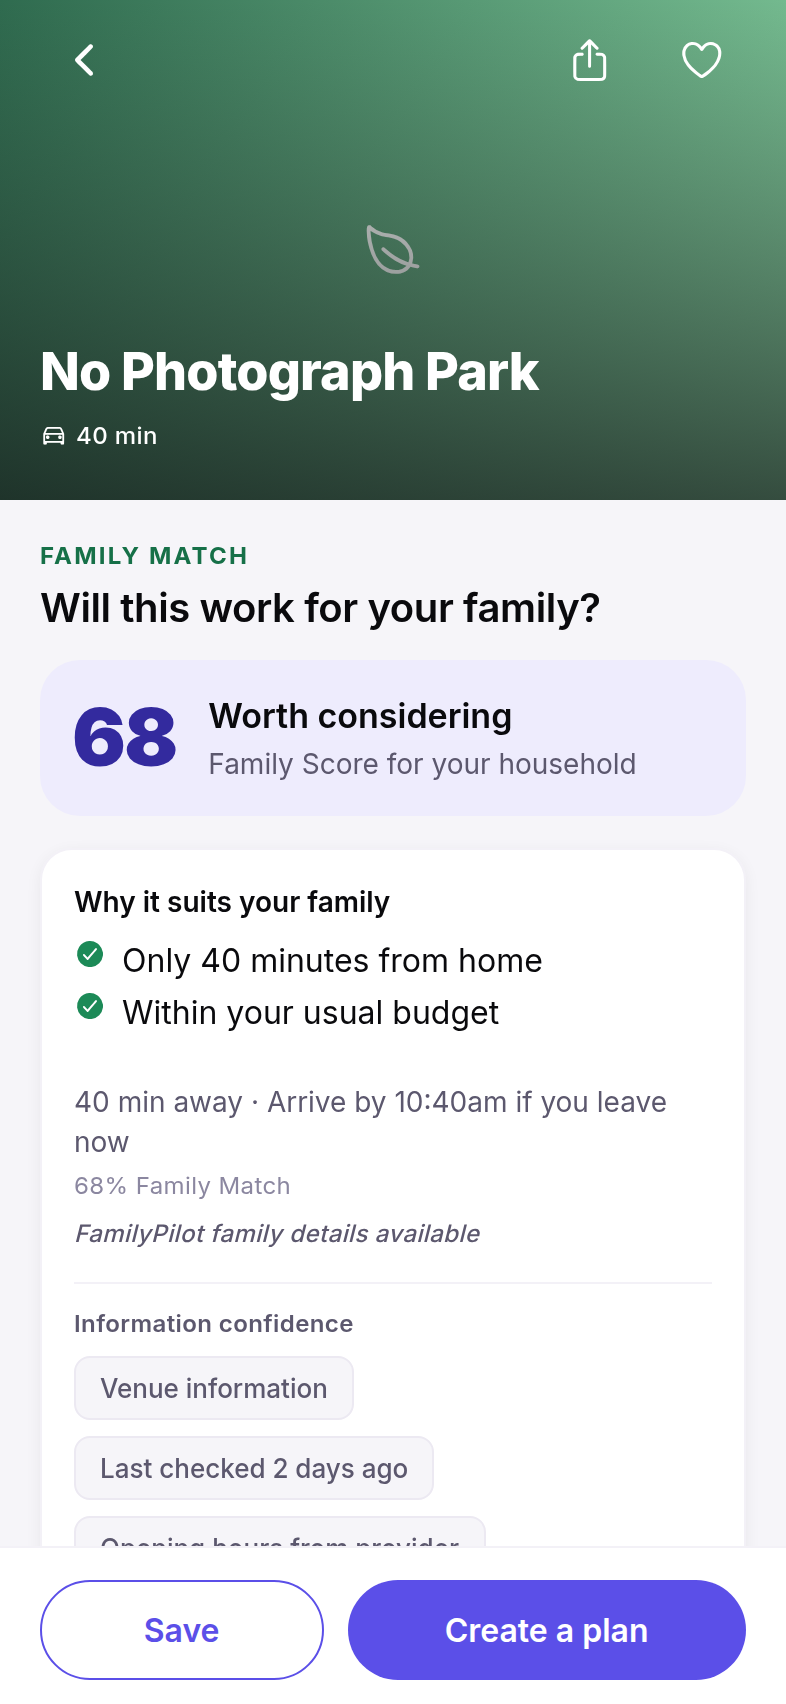
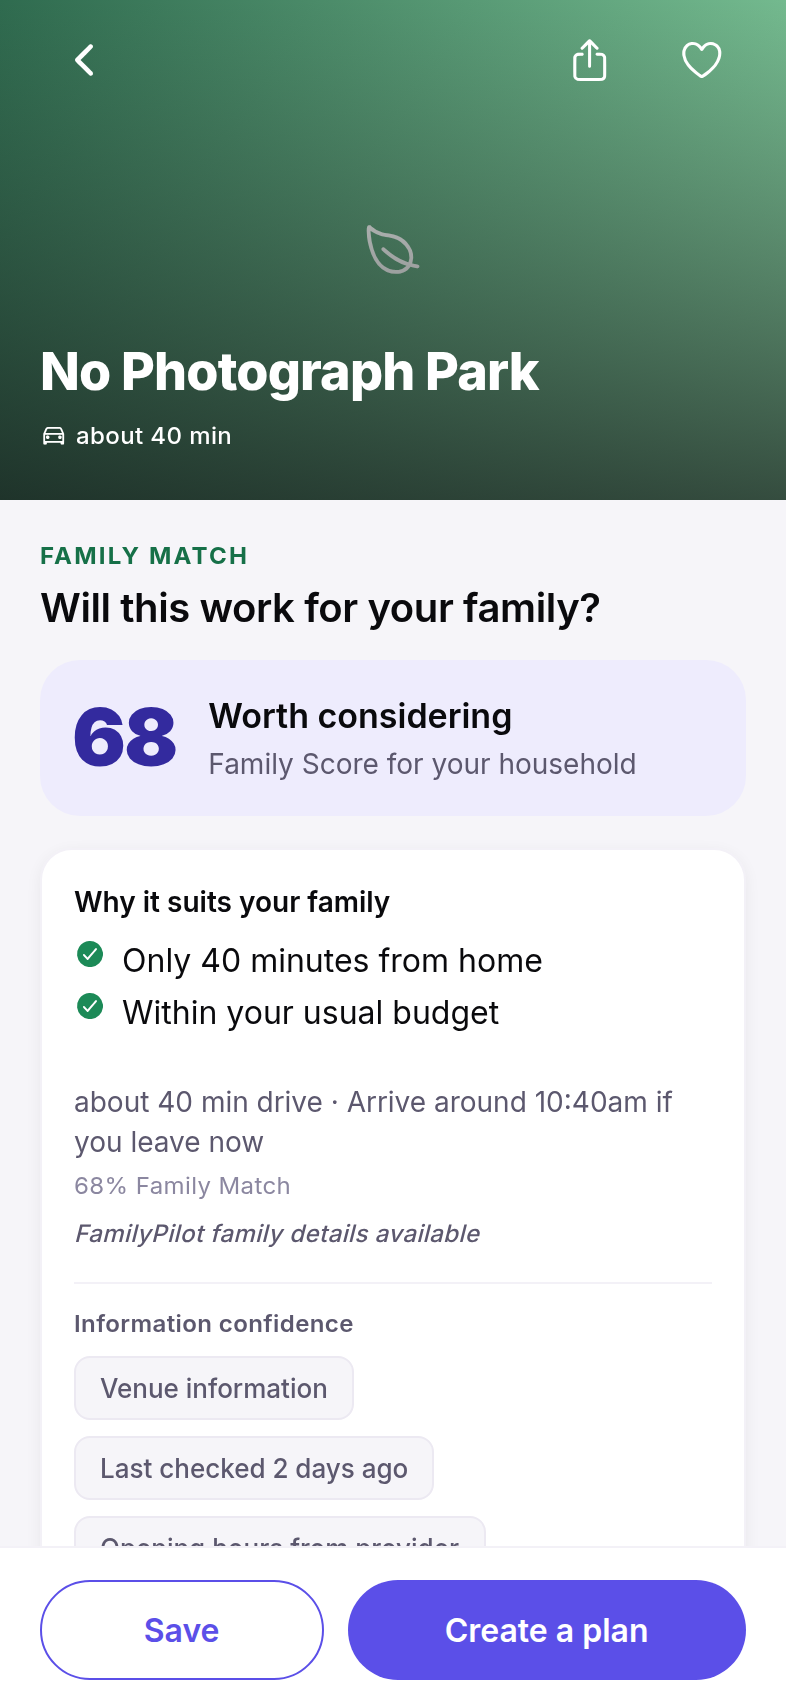
Stop wording a straight-line estimate as a measured journey
Section 4 of the brief: "Do not label a straight-line estimate as a routed
journey." Eleven surfaces were doing exactly that.

Every `driveMinutes` on a Venue, RestaurantDetail or StoreLocation is a Haversine
distance divided by 40 km/h and multiplied by 1.25 -- no road network, no
traffic, no routing. Printed as "14 min away" it reads as a measurement, and a
parent timing a day around a nap is being handed a guess in the voice of a fact.

The Plan screen already got this right: it labels each leg Measured or
Estimated from distance and counts how many are which. So the inconsistency was
inside the product, not only against the brief.

The sharpest case was RecommendationPattern, which turned the estimate into
"Arrive BY 14:32 if you leave now" -- a precise clock time and a promise, from a
straight line. Now "Arrive around".

One surface already had the provenance and ignored it: FocusedRecommendation
carries journeySource ('live' | 'estimated') because that path can substitute a
routed Distance Matrix value, and its card printed the number bare. It now words
the measured case plainly and the estimated case cautiously, which is the whole
point of keeping the field.

src/utils/travel-time.ts holds the rule in one place. An absent or unrecognised
source resolves to 'estimated', never to 'measured': the failure to avoid is
presenting a guess as a measurement, not the reverse. The mode vocabulary
(drive / walk / transit / bus) is there for the lunch work, and already refuses
[…]

Changed region(s): [[0.3359, 0.6221, 0.855, 0.6532], [0.0916, 0.6221, 0.3359, 0.6843], [0.0916, 0.2488, 0.2748, 0.2799]]

diff --git a/familypilot/src/__tests__/travel-time-label.test.ts b/familypilot/src/__tests__/travel-time-label.test.ts
@@ -1,0 +1,99 @@
+import { describe, expect, it } from 'vitest';
+
+import {
+  travelSourceOf,
+  travelTimeLabel,
+  travelTimeSpoken,
+  travelTimeWithMode,
+} from '@/src/utils/travel-time';
+
+/**
+ * A straight-line estimate must not be worded as a routed journey.
+ *
+ * The number behind every card's travel time is a Haversine distance divided by an assumed average
+ * speed. Printed as "14 min away" it reads as a measurement. These lock the distinction, and in
+ * particular lock the SAFE DIRECTION: when provenance is missing, the wording is cautious. Getting
+ * that backwards -- a guess presented as a measurement -- is the failure that matters to a parent
+ * timing a day around a nap.
+ */
+describe('a travel time is worded by how it was obtained', () => {
+  it('hedges an estimate', () => {
+    expect(travelTimeLabel(14, 'estimated')).toBe('about 14 min');
+  });
+
+  it('states a measurement plainly', () => {
+    expect(travelTimeLabel(14, 'measured')).toBe('14 min');
+  });
+
+  it('never words an estimate the way it words a measurement', () => {
+    for (const minutes of [1, 7, 14, 45, 120]) {
+      expect(travelTimeLabel(minutes, 'estimated')).not.toBe(travelTimeLabel(minutes, 'measured'));
+    }
+  });
+
+  it('costs at most one character more than the phrasing it replaces', () => {
+    // The old copy was `${minutes} min away`. "about " is six characters where " away" was five, so
+    // the hedge is always exactly one longer -- I first wrote this expecting it to be shorter, and it
+    // is not. One character is small enough that the locked Home frame can absorb it, but that is
+    // settled by re-running verify-home-against-figma.mjs, not by this bound.
+    for (const minutes of [1, 14, 120]) {
+      expect(travelTimeLabel(minutes, 'estimated').length).toBe(`${minutes} min away`.length + 1);
+    }
+  });
+
+  it('rounds to whole minutes and never promises under a minute', () => {
+    expect(travelTimeLabel(0, 'estimated')).toBe('about 1 min');
+    expect(travelTimeLabel(0.2, 'measured')).toBe('1 min');
+    expect(travelTimeLabel(14.6, 'measured')).toBe('15 min');
+  });
+});
+
+describe('the provider vocabulary resolves without guessing upward', () => {
+  it('treats a routed element as measured', () => {
+    expect(travelSourceOf('live')).toBe('measured');
+  });
+
+  it('treats the endpoint fallback as an estimate', () => {
+    expect(travelSourceOf('estimated')).toBe('estimated');
+  });
+
+  it('treats an absent source as an estimate, never as measured', () => {
+    // A venue persisted before provenance was carried, or a provider that stopped saying. Either
+    // way the cautious wording is the only honest one.
+    expect(travelSourceOf(undefined)).toBe('estimated');
+  });
+});
+
+describe('the mode is named, not assumed', () => {
+  it('names a drive', () => {
+    expect(travelTimeWithMode(14, 'estimated', 'drive')).toBe('about 14 min drive');
+  });
+
+  it('names a walk', () => {
+    expect(travelTimeWithMode(9, 'estimated', 'walk')).toBe('about 9 min walk');
+  });
+
+  it('does not call public transport a bus', () => {
+    // Section 5 of the brief: a bus label is a claim about the mode, not a generic transport word.
+    expect(travelTimeWithMode(22, 'measured', 'transit')).toBe('22 min by public transport');
+    expect(travelTimeWithMode(22, 'measured', 'transit')).not.toContain('bus');
+    expect(travelTimeWithMode(22, 'measured', 'bus')).toBe('22 min by bus');
+  });
+});
+
+describe('what a screen reader is told', () => {
+  it('says an estimate is an estimate, in words', () => {
+    expect(travelTimeSpoken(14, 'estimated')).toBe(
+      'roughly 14 minutes drive, estimated from distance rather than measured',
+    );
+  });
+
+  it('does not hedge a measurement', () => {
+    expect(travelTimeSpoken(14, 'measured')).toBe('14 minutes drive');
+    expect(travelTimeSpoken(14, 'measured')).not.toContain('estimated');
+  });
+
+  it('gets the singular right', () => {
+    expect(travelTimeSpoken(1, 'measured')).toBe('1 minute drive');
+  });
+});

diff --git a/familypilot/src/utils/travel-time.ts b/familypilot/src/utils/travel-time.ts
@@ -1,0 +1,82 @@
+/**
+ * How a travel time is worded, decided by how it was obtained.
+ *
+ * THE DEFECT THIS EXISTS TO FIX. Every venue card, saved row, restaurant card and detail header
+ * printed a bare "14 min away". That number is a Haversine straight line divided by 40 km/h and
+ * multiplied by 1.25 (`estimateDriveMinutes`): no road network, no traffic, no routing of any kind.
+ * Phrased as "14 min away" it reads as a measurement, and a parent deciding whether a nap will
+ * survive the trip is being given a guess in the voice of a fact.
+ *
+ * The Plan screen already got this right -- it labels each leg `Measured` or
+ * `Estimated from distance` and counts how many are which -- so the inconsistency was within the
+ * product, not just against the brief.
+ *
+ * WHICH NUMBERS ARE WHICH. Every `driveMinutes` on a `Venue`, `RestaurantDetail` or `StoreLocation`
+ * is an estimate: `mergePlaceToVenue` computes it from coordinates and nothing downstream replaces
+ * it (`personaliseVenue` explicitly carries the same value through). The one exception is
+ * `FocusedRecommendation`, which may substitute a routed Distance Matrix value and already records
+ * which it did in `journeySource`. So the provenance is never guessed here either: callers pass what
+ * they know, and a caller that knows nothing gets the cautious wording rather than the confident one.
+ */
+
+/** How a travel duration was obtained. */
+export type TravelTimeSource = 'measured' | 'estimated';
+
+/** The mode a duration describes. Only driving exists today; the rest are for the lunch work. */
+export type TravelMode = 'drive' | 'walk' | 'transit' | 'bus';
+
+/**
+ * Resolves the provider's vocabulary into ours.
+ *
+ * The journey endpoint says `live` for a routed element and `estimated` for one it fell back on.
+ * Anything absent or unrecognised is treated as an estimate, because the failure to avoid is
+ * presenting a guess as a measurement, not the reverse.
+ */
+export function travelSourceOf(source: 'live' | 'estimated' | undefined): TravelTimeSource {
+  return source === 'live' ? 'measured' : 'estimated';
+}
+
+/**
+ * The compact label for a card or a row: `about 14 min` or `14 min`.
+ *
+ * "about" rather than a tilde, because a tilde is easy to miss at caption size and means nothing to
+ * a screen reader. It costs exactly one character more than the " away" it replaces, which the
+ * locked Home frame is re-measured against rather than assumed to tolerate.
+ */
+export function travelTimeLabel(minutes: number, source: TravelTimeSource): string {
+  const rounded = Math.max(1, Math.round(minutes));
+  return source === 'measured' ? `${rounded} min` : `about ${rounded} min`;
+}
+
+/** The same, naming the mode, for somewhere with room: `about 14 min drive`. */
+export function travelTimeWithMode(
+  minutes: number,
+  source: TravelTimeSource,
+  mode: TravelMode,
+): string {
+  return `${travelTimeLabel(minutes, source)} ${MODE_NOUN[mode]}`;
+}
+
+const MODE_NOUN: Record<TravelMode, string> = {
+  drive: 'drive',
+  walk: 'walk',
+  transit: 'by public transport',
+  bus: 'by bus',
+};
+
+/**
+ * What a screen reader says. Spelled out, because "about 14 min" read aloud mid-sentence can be
+ * heard as part of the venue's name, and because the distinction is the point.
+ */
+export function travelTimeSpoken(
+  minutes: number,
+  source: TravelTimeSource,
+  mode: TravelMode = 'drive',
+): string {
+  const rounded = Math.max(1, Math.round(minutes));
+  const unit = rounded === 1 ? 'minute' : 'minutes';
+  const noun = mode === 'drive' ? 'drive' : MODE_NOUN[mode];
+  return source === 'measured'
+    ? `${rounded} ${unit} ${noun}`
+    : `roughly ${rounded} ${unit} ${noun}, estimated from distance rather than measured`;
+}

diff --git a/familypilot/src/components/home/FocusedRecommendationCard.tsx b/familypilot/src/components/home/FocusedRecommendationCard.tsx
@@ -9,6 +9,7 @@ import { VenueImage } from '@/src/components/ui/VenueImage';
 import { colors, radius, spacing } from '@/src/design-system/tokens';
 import { FocusedRecommendation } from '@/src/types/day-request';
 import { formatArrivalTime } from '@/src/utils/clock-format';
+import { travelSourceOf, travelTimeLabel } from '@/src/utils/travel-time';
 
 interface Props { recommendation: FocusedRecommendation; variant?: 'hero' | 'carousel'; index?: number }
 export function FocusedRecommendationCard({ recommendation, variant = 'carousel', index = 0 }: Props) {
@@ -20,7 +21,7 @@ export function FocusedRecommendationCard({ recommendation, variant = 'carousel'
         <VenueImage uri={recommendation.imageUrl} category={recommendation.category} alt={recommendation.venueName} style={[styles.image, isHero && styles.heroImage]} borderRadius={radius.lg} />
         {isHero ? <>
           <LinearGradient colors={['transparent', 'rgba(18,24,27,0.82)']} style={styles.scrim} pointerEvents="none" />
-          <View style={styles.overlayCopy}><Text variant="caption" color={colors.text.inverse}>{recommendation.category}</Text><Text variant="heading2" color={colors.text.inverse} style={styles.venueName}>{recommendation.venueName}</Text><View style={styles.rating}><Ionicons name="star" size={14} color="#FFD166" /><Text variant="caption" color={colors.text.inverse}>{recommendation.fit}</Text><Text variant="caption" color="rgba(255,255,255,0.76)">{recommendation.driveMinutes} min away</Text></View></View>
+          <View style={styles.overlayCopy}><Text variant="caption" color={colors.text.inverse}>{recommendation.category}</Text><Text variant="heading2" color={colors.text.inverse} style={styles.venueName}>{recommendation.venueName}</Text><View style={styles.rating}><Ionicons name="star" size={14} color="#FFD166" /><Text variant="caption" color={colors.text.inverse}>{recommendation.fit}</Text><Text variant="caption" color="rgba(255,255,255,0.76)">{travelTimeLabel(recommendation.driveMinutes, travelSourceOf(recommendation.journeySource))}</Text></View></View>
           <View style={styles.arrow}><Ionicons name="arrow-forward" size={22} color={colors.text.primary} /></View>
         </> : null}
       </View>

diff --git a/familypilot/src/components/shared/SavedPlaceRow.tsx b/familypilot/src/components/shared/SavedPlaceRow.tsx
@@ -11,6 +11,7 @@ import { colors, radius, shadows, spacing } from '@/src/design-system/tokens';
 import { useSavedStore } from '@/src/stores/saved-store';
 import { Venue, VenueCategory } from '@/src/types';
 import { getMatchClassification } from '@/src/utils/family-match-classification';
+import { travelTimeLabel, travelTimeSpoken } from '@/src/utils/travel-time';
 
 const CATEGORY_LABELS: Record<VenueCategory, string> = {
   park: 'Park',
@@ -56,7 +57,7 @@ export function SavedPlaceRow({ venue, itemType, onRemoved, index = 0 }: SavedPl
         onPress={() => router.push(detailPath as never)}
         style={styles.row}
         accessibilityRole="button"
-        accessibilityLabel={`${venue.name}, ${classification}, ${venue.driveMinutes} minutes away`}
+        accessibilityLabel={`${venue.name}, ${classification}, ${travelTimeSpoken(venue.driveMinutes, 'estimated')}`}
       >
         <VenueImage
           uri={venue.imageUrl}
@@ -75,7 +76,7 @@ export function SavedPlaceRow({ venue, itemType, onRemoved, index = 0 }: SavedPl
           <View style={styles.meta}>
             <FamilyMatch score={venue.familyScore.score} variant="compact" style={styles.match} />
             <Text variant="caption" color={colors.text.secondary}>
-              {venue.driveMinutes} min away
+              {travelTimeLabel(venue.driveMinutes, 'estimated')}
               {venue.estimatedSpend ? ` · Estimated ${venue.estimatedSpend}` : ''}
             </Text>
           </View>

diff --git a/familypilot/app/restaurant/[id].tsx b/familypilot/app/restaurant/[id].tsx
@@ -35,6 +35,7 @@ import { useReducedMotion } from '@/src/hooks/use-reduced-motion';
 import { useSavedStore } from '@/src/stores/saved-store';
 import { generateRestaurantStaticParams } from '@/src/utils/restaurant-routes';
 import { getMatchClassification } from '@/src/utils/family-match-classification';
+import { travelTimeLabel } from '@/src/utils/travel-time';
 
 const HERO_HEIGHT = 320;
 const AnimatedScrollView = Animated.createAnimatedComponent(ScrollView);
@@ -240,7 +241,8 @@ function RestaurantScreenContent() {
                 <Ionicons name="location-outline" size={18} color={colors.primary[500]} />
                 <View style={styles.contextText}>
                   <Text variant="bodySmall" style={styles.contextPrimary}>
-                    {restaurant.driveMinutesFromActivity} minutes from {activityVenue.name}
+                    {travelTimeLabel(restaurant.driveMinutesFromActivity, 'estimated')} from{' '}
+                    {activityVenue.name}
                   </Text>
                   <PressableLink label={`Return to ${activityVenue.name}`} onPress={handleReturnToActivity} />
                 </View>

diff --git a/familypilot/app/venue/[id].tsx b/familypilot/app/venue/[id].tsx
@@ -47,6 +47,7 @@ import { useSavedStore } from '@/src/stores/saved-store';
 import { localDate, usePlanningStore } from '@/src/stores/planning-store';
 import { getEnrichmentDetailTrustCopy, formatTerrainLabel, getMatchClassification } from '@/src/utils/family-match-classification';
 import { generateVenueStaticParams } from '@/src/utils/venue-routes';
+import { travelTimeLabel } from '@/src/utils/travel-time';
 
 const HERO_HEIGHT = 250;
 const AnimatedScrollView = Animated.createAnimatedComponent(ScrollView);
@@ -225,7 +226,8 @@ export default function VenueScreen() {
               {venue.name}
             </Text>
             <View style={styles.heroMeta}>
-              <MetaItem icon="car-outline" text={`${venue.driveMinutes} min`} />
+              {/* Hedged: this is a straight-line estimate, not a routed drive. */}
+              <MetaItem icon="car-outline" text={travelTimeLabel(venue.driveMinutes, 'estimated')} />
               {venue.visitDurationMinutes ? (
                 <MetaItem icon="time-outline" text={`~${Math.round(venue.visitDurationMinutes / 60)}h visit`} />
               ) : null}

diff --git a/familypilot/src/components/shared/RecommendationPattern.tsx b/familypilot/src/components/shared/RecommendationPattern.tsx
@@ -10,6 +10,7 @@ import { getMatchClassification, getEnrichmentTrustCopy } from '@/src/utils/fami
 import { formatArrivalTime } from '@/src/utils/clock-format';
 
 import { formatFamilyMatchSecondary } from '../ui/family-match-label';
+import { travelTimeWithMode } from '@/src/utils/travel-time';
 
 export type RecommendationVariant = 'hero' | 'carousel' | 'list' | 'detail';
 
@@ -143,7 +144,10 @@ export function RecommendationPattern({
       ) : null}
 
       <Text variant="bodySmall" color={colors.text.secondary} style={styles.metaLine}>
-        {venue.driveMinutes} min away · Arrive by {formatArrivalTime(venue.driveMinutes)} if you leave now
+        {/* "Arrive BY 14:32" is a promise, and the number behind it is a straight line divided by an
+            assumed average speed. "around" is what that evidence supports. */}
+        {travelTimeWithMode(venue.driveMinutes, 'estimated', 'drive')} · Arrive around{' '}
+        {formatArrivalTime(venue.driveMinutes)} if you leave now
         {venue.estimatedSpend ? ` · Estimated ${venue.estimatedSpend}` : ''}
       </Text>
 

diff --git a/familypilot/src/utils/family-signals.ts b/familypilot/src/utils/family-signals.ts
@@ -2,6 +2,7 @@ import { Ionicons } from '@expo/vector-icons';
 
 import { MatchableVenueFacts } from '@/src/types/day-request';
 import { Venue } from '@/src/types';
+import { travelTimeLabel } from '@/src/utils/travel-time';
 
 export interface FamilySignal {
   key: string;
@@ -56,7 +57,13 @@ export function getFamilySignals(facts: Facts | undefined, limit = 4): FamilySig
 
 /** Travel time always earns its place on a card: it is known for every venue. */
 export function getTravelSignal(driveMinutes: number): FamilySignal {
-  return { key: 'drive', icon: 'time-outline', label: `${driveMinutes} min away` };
+  // Always hedged, because a Venue's driveMinutes is always a straight-line estimate: it is computed
+  // from coordinates in mergePlaceToVenue and nothing downstream replaces it with a routed value.
+  return {
+    key: 'drive',
+    icon: 'time-outline',
+    label: travelTimeLabel(driveMinutes, 'estimated'),
+  };
 }
 
 /** Card signals: travel time first, then confirmed facts, capped so cards stay calm. */

diff --git a/familypilot/src/components/restaurant/RestaurantCard.tsx b/familypilot/src/components/restaurant/RestaurantCard.tsx
@@ -8,6 +8,7 @@ import { colors, radius, shadows, spacing } from '@/src/design-system/tokens';
 import { RestaurantDetail } from '@/src/types';
 import { getMatchClassification } from '@/src/utils/family-match-classification';
 import { restaurantFeatureHighlights } from '@/src/services/scoring/restaurant-score';
+import { travelTimeLabel } from '@/src/utils/travel-time';
 
 interface RestaurantCardProps {
   restaurant: RestaurantDetail;
@@ -45,7 +46,7 @@ export function RestaurantCard({ restaurant, index = 0 }: RestaurantCardProps) {
           {classification}
         </Text>
         <Text variant="bodySmall" color={colors.text.secondary}>
-          {restaurant.driveMinutes} min away · Estimated{' '}
+          {travelTimeLabel(restaurant.driveMinutes, 'estimated')} · Estimated{' '}
           {restaurant.estimatedFamilySpend ?? restaurant.estimatedSpend ?? 'spend varies'}
         </Text>
         {highlights.length > 0 ? (

diff --git a/familypilot/src/components/venue/WeatherAlternativeSection.tsx b/familypilot/src/components/venue/WeatherAlternativeSection.tsx
@@ -4,6 +4,7 @@ import { StyleSheet, View } from 'react-native';
 import { Text } from '@/src/components/ui/Text';
 import { colors, radius, spacing } from '@/src/design-system/tokens';
 import { WeatherAlternative } from '@/src/types';
+import { travelTimeLabel } from '@/src/utils/travel-time';
 
 interface WeatherAlternativeSectionProps {
   alternative: WeatherAlternative;
@@ -19,7 +20,7 @@ export function WeatherAlternativeSection({ alternative }: WeatherAlternativeSec
         <Ionicons name="rainy-outline" size={20} color={colors.accent[600]} />
         <View style={styles.textBlock}>
           <Text variant="body">
-            {alternative.name} · {alternative.driveMinutes} min away
+            {alternative.name} · {travelTimeLabel(alternative.driveMinutes, 'estimated')}
           </Text>
           <Text variant="bodySmall" color={colors.text.secondary}>
             {alternative.description}

diff --git a/familypilot/src/components/restaurant/EatNearbyCompactCard.tsx b/familypilot/src/components/restaurant/EatNearbyCompactCard.tsx
@@ -6,6 +6,7 @@ import { Button } from '@/src/components/ui/Button';
 import { Text } from '@/src/components/ui/Text';
 import { colors, radius, shadows, spacing } from '@/src/design-system/tokens';
 import { EatNearbyRecommendation } from '@/src/types';
+import { travelTimeWithMode } from '@/src/utils/travel-time';
 
 interface EatNearbyCompactCardProps {
   recommendation: EatNearbyRecommendation;
@@ -35,7 +36,7 @@ export function EatNearbyCompactCard({ recommendation, activityVenueId }: EatNea
           {recommendation.classification}
         </Text>
         <Text variant="bodySmall" color={colors.text.secondary}>
-          {recommendation.driveMinutes} mins drive
+          {travelTimeWithMode(recommendation.driveMinutes, 'estimated', 'drive')}
           {recommendation.estimatedFamilySpend
             ? ` · ${recommendation.estimatedFamilySpend}`
             : ''}

diff --git a/familypilot/src/components/shared/DecisionCard.tsx b/familypilot/src/components/shared/DecisionCard.tsx
@@ -13,6 +13,7 @@ import { Venue } from '@/src/types';
 import { getMatchClassification } from '@/src/utils/family-match-classification';
 
 import { RecommendationPattern } from './RecommendationPattern';
+import { travelTimeLabel } from '@/src/utils/travel-time';
 
 interface DecisionCardProps {
   venue: Venue;
@@ -82,7 +83,7 @@ function DecisionCardComponent({
             </Text>
           ) : null}
           <Text variant="caption" color={colors.text.tertiary}>
-            {venue.category.replace('_', ' ')} · {venue.driveMinutes} min away
+            {venue.category.replace('_', ' ')} · {travelTimeLabel(venue.driveMinutes, 'estimated')}
             {venue.estimatedSpend ? ` · ${venue.estimatedSpend}` : ''}
           </Text>
           <Text variant="caption" color={colors.primary[600]} style={styles.compactCta}>
